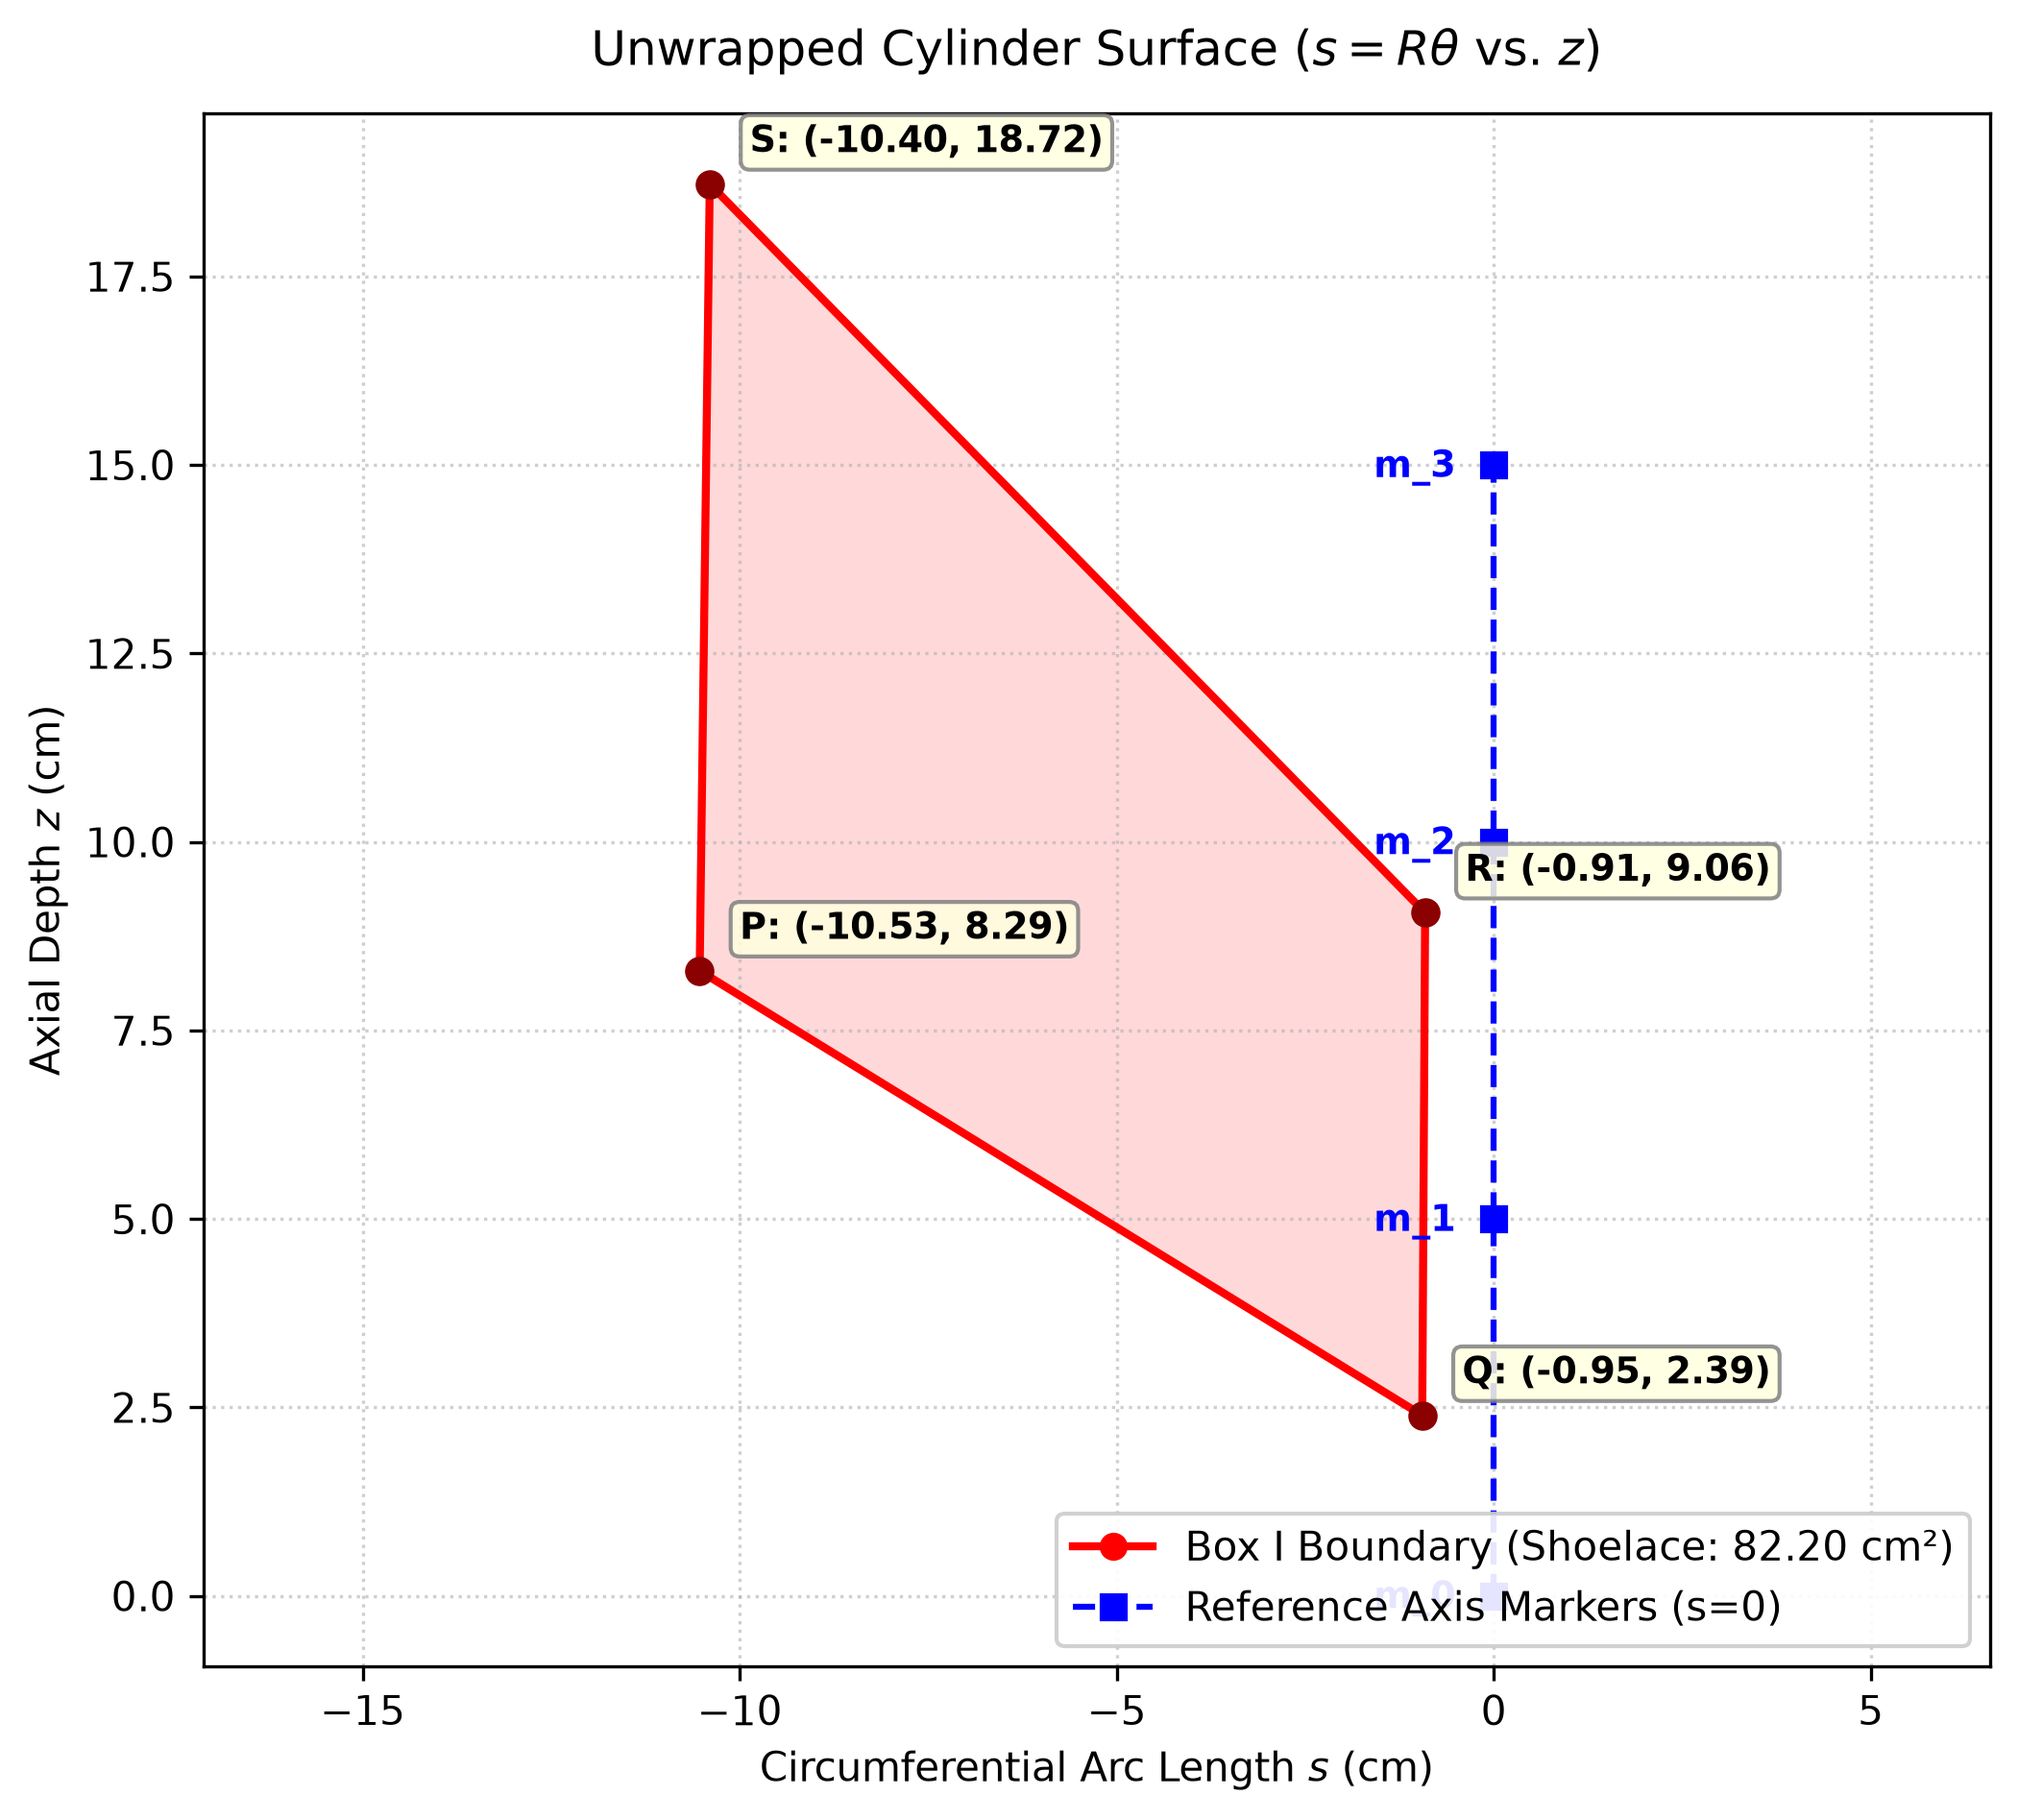
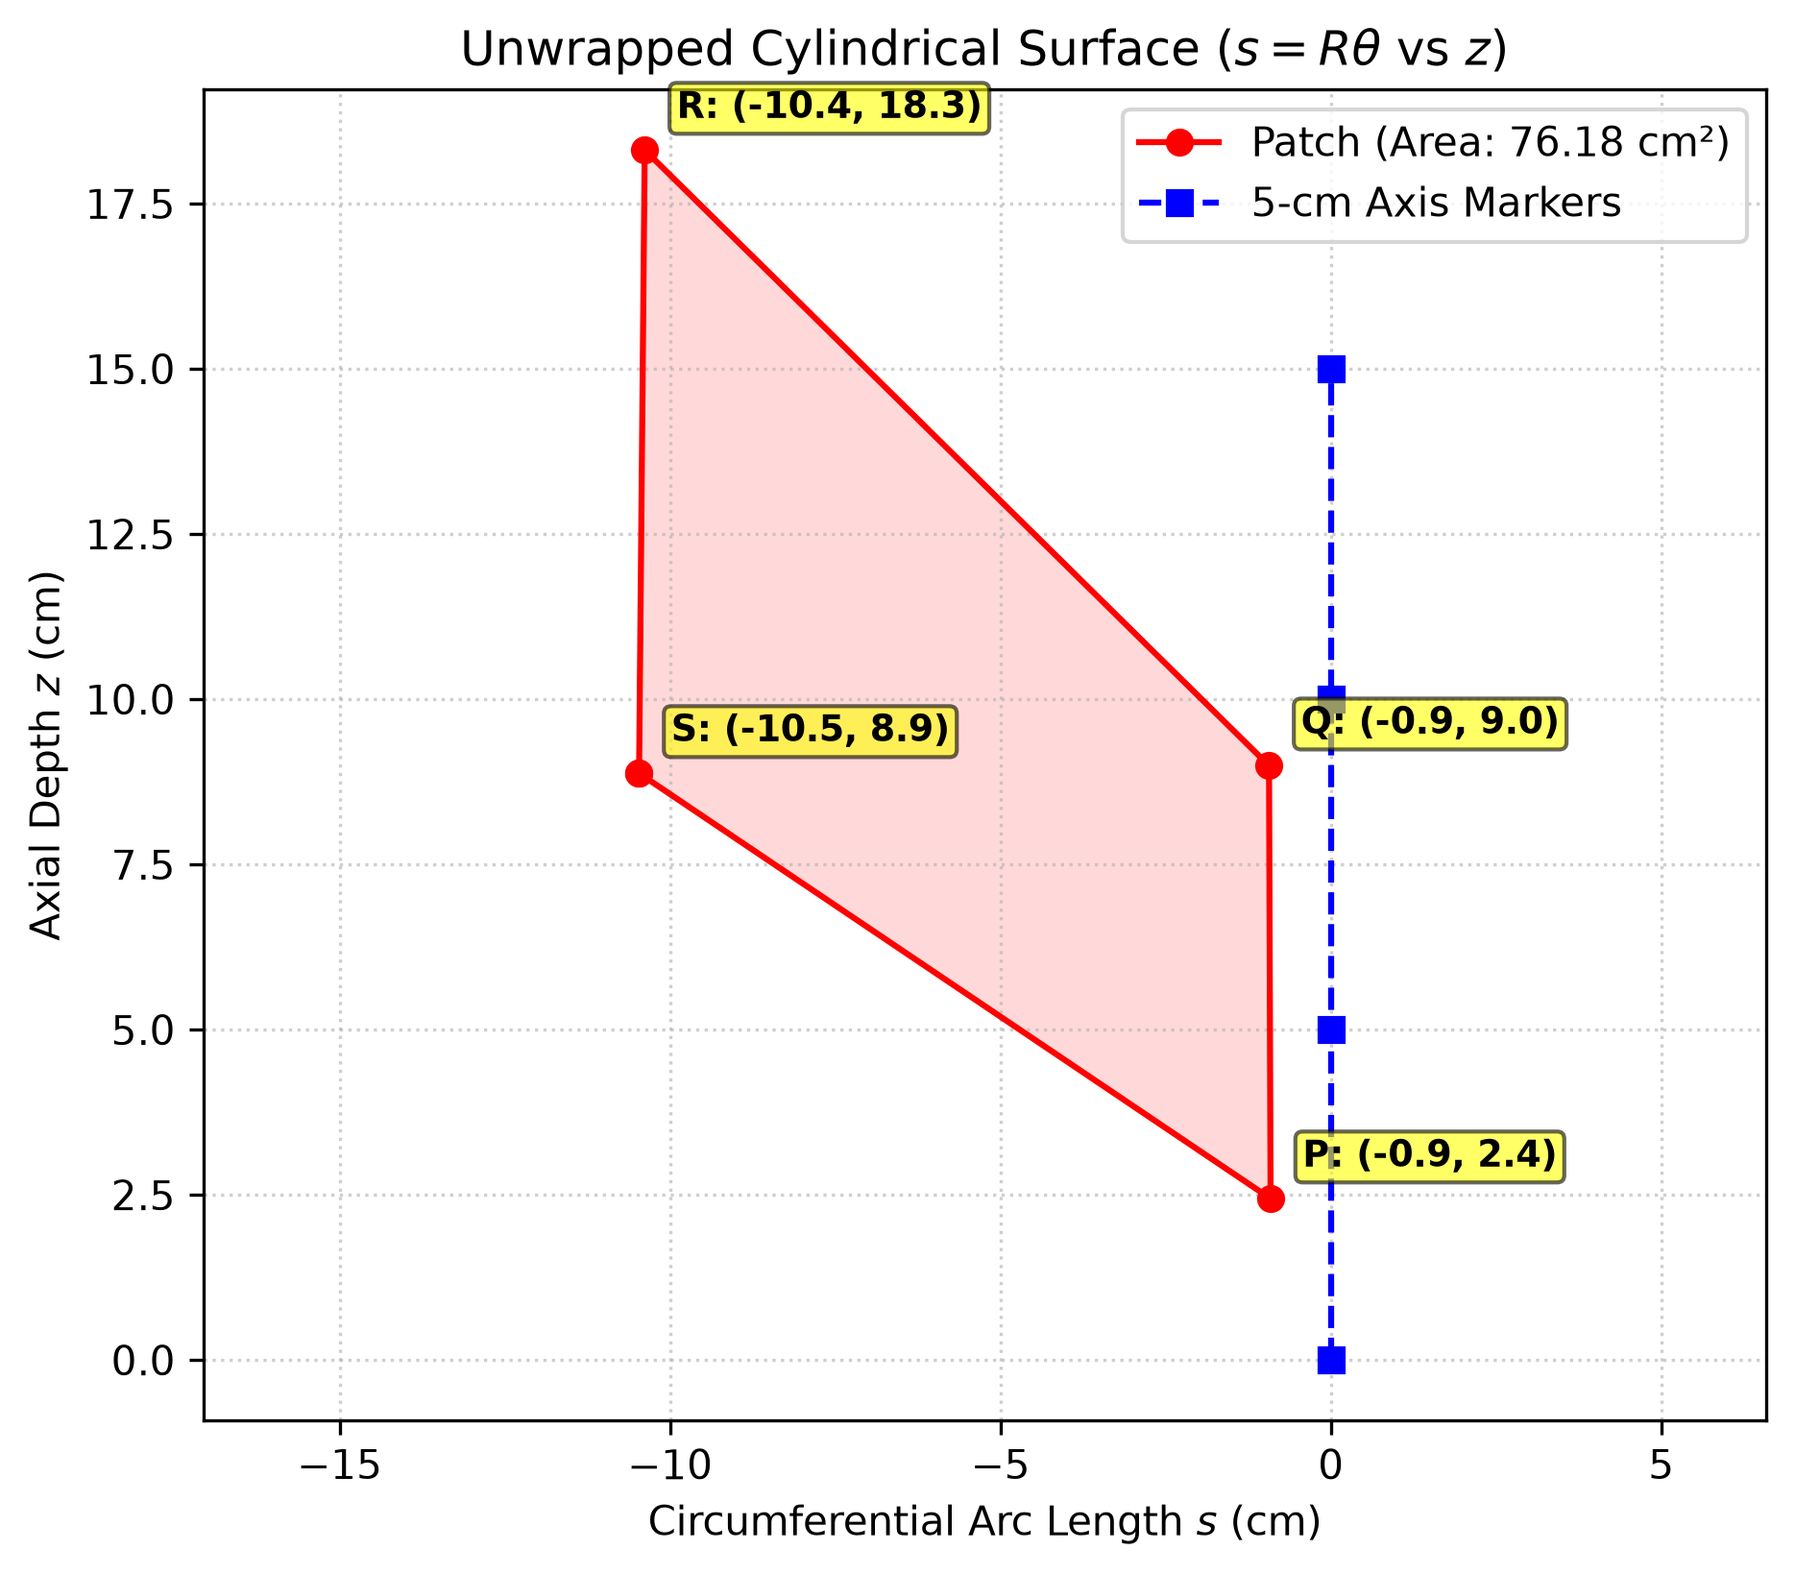
feat: validate Box 1 patch reconstruction and unwrapped metrics

Changed region(s): [[0.0, 0.0, 0.993, 0.9957], [0.4345, 0.1867, 0.6517, 0.4356]]

diff --git a/2D_coordinates_3D_coordinates.py b/2D_coordinates_3D_coordinates.py
@@ -1,6 +1,7 @@
 import cv2
 import math
 import numpy as np
+import os
 
 # 2. Dimensions and physical constants
 img_width = 3024
@@ -32,16 +33,8 @@ viewing_directions = []
 # Dictionary to look up specific points by letter: P, Q, R, S
 points_dict = {}
 
-# After four clicks, have:
-# points_dict["P"]["d_hat"] → P's normalized direction
-# points_dict["Q"]["d_hat"] → Q's normalized direction
-# points_dict["R"]["d_hat"] → R's normalized direction
-# points_dict["S"]["d_hat"] → S's normalized direction
-
 measurement_labels = ['m_0', 'm_1', 'm_2', 'm_3']
-
 measurement_coordinates = []
-
 axial_positions = [40.0, 35.0, 30.0, 25.0]  # cm
 
 # Camera Matrix
@@ -53,50 +46,16 @@ K = np.array([
 
 # Camera Ray
 # P(t) = C + td
-
 C = np.array([
     [0],
     [0],
     [0]
 ])
 
-# Cylinder pose still to determine:
-#
-# A = one known/estimated point on cylinder center axis
-# a_hat = unit direction vector of cylinder axis
-#
-# Determine A and a_hat using:
-# - radius = 4.25 cm
-# - longitudinal reference lines
-# - known 5-cm markings
-#
-# Do NOT estimate cylinder pose from P, Q, R, S.
-
 reference_spacing = 5.0  # cm
-
-# For two consecutive points on the same longitudinal reference line:
-#
-# M_i     = t_i * d_hat_i
-# M_next  = t_next * d_hat_next
-#
-# M_i - M_next = reference_spacing * a_hat
-#
-# Therefore:
-# t_i * d_hat_i - t_next * d_hat_next
-#     = reference_spacing * a_hat
-
-# Known physical constraint:
-# ||M_1 - M_0|| = reference_spacing
-
-# Cylinder center axis:
-# L(s) = A + s * a_hat
-# A     = a 3D point on the cylinder center axis
-# a_hat = unit direction vector of the cylinder center axis
-# s     = parameter that moves along the cylinder axis
 
 def mouse_click_callback(event, u, v, flags, param):
     """Callback function triggered on mouse events."""
-    # Only capture up to 8 points (m_0..m_3, P..S)
     if event == cv2.EVENT_LBUTTONDOWN and len(clicked_coordinates) < len(labels):
         idx = len(clicked_coordinates)
         letter = labels[idx]
@@ -155,11 +114,15 @@ def mouse_click_callback(event, u, v, flags, param):
             print("\n>>> Reference points m_0 to m_3 recorded!")
             print(">>> Now click the 4 corners of Box 1 (P -> Q -> R -> S in order)...\n")
 
-image_path = '/Users/ryanmondong/Desktop/IMG_2667.JPG'
+# Use current Downloads path directly
+image_path = os.path.expanduser('~/Downloads/cylinder-3d-reconstruction/IMG_2667.JPG')
+if not os.path.exists(image_path):
+    image_path = os.path.expanduser('~/Downloads/IMG_2667.JPG')
+
 original_img = cv2.imread(image_path)
 
 if original_img is None:
-    print("Error: Could not load image. Check the file path.")
+    print(f"Error: Could not load image from {image_path}. Check the file path.")
 else:
     display_img = original_img.copy()
 
@@ -167,7 +130,6 @@ else:
     cv2.setMouseCallback("Image Window", mouse_click_callback)
     cv2.imshow("Image Window", display_img)
 
-    # print("Click on the image to store coordinates (P, Q, R, S). Press 'ESC' or 'q' to exit.")
     print("Click known 5-cm reference markings m_0, m_1, m_2, m_3. Press 'ESC' or 'q' to exit.")
 
     while True:
@@ -186,10 +148,10 @@ else:
     d3 = points_dict['m_3']['d_hat'].flatten()
 
     B1 = np.column_stack((
-    d0,
-    -2 * d1,
-    d2,
-    np.zeros(3)
+        d0,
+        -2 * d1,
+        d2,
+        np.zeros(3)
     ))
 
     B2 = np.column_stack((
@@ -203,11 +165,8 @@ else:
 
     # Solve for relative depths using SVD
     U, S, Vt = np.linalg.svd(B)
-
     t_relative = Vt[-1]
 
-    # SVD can return the same solution with either sign.
-    # Camera points should be in front of the camera.
     if np.mean(t_relative) < 0:
         t_relative = -t_relative
 
@@ -265,39 +224,27 @@ else:
     v_axis = np.cross(a_hat, u_axis)
 
     def intersect_ray_cylinder(d_hat, A_anchor, a_hat_dir, R_cyl):
-        """Calculates the 3D surface intersection for a camera ray."""
-        v = np.cross(d_hat, a_hat_dir)
-        w = np.cross(-A_anchor, a_hat_dir)
+            """Calculates the 3D surface intersection for a camera ray."""
+            v = np.cross(d_hat, a_hat_dir)
+            w = np.cross(-A_anchor, a_hat_dir)
 
-        c2 = np.dot(v, v)
-        c1 = 2.0 * np.dot(v, w)
-        c0 = np.dot(w, w) - (R_cyl ** 2)
+            c2 = np.dot(v, v)
+            c1 = 2.0 * np.dot(v, w)
+            c0 = np.dot(w, w) - (R_cyl ** 2)
 
-        discriminant = c1**2 - 4.0 * c2 * c0
-        if discriminant < 0:
-            raise ValueError("Ray does not intersect cylinder.")
+            discriminant = c1**2 - 4.0 * c2 * c0
+            if discriminant < 0:
+                raise ValueError("Ray does not intersect cylinder.")
 
-        t1 = (-c1 - np.sqrt(discriminant)) / (2.0 * c2)
-        t2 = (-c1 + np.sqrt(discriminant)) / (2.0 * c2)
+            t1 = (-c1 - np.sqrt(discriminant)) / (2.0 * c2)
+            t2 = (-c1 + np.sqrt(discriminant)) / (2.0 * c2)
 
-        # Find the positive root that stays inside the physical pipe bounds
-        candidates = []
-        for t in (t1, t2):
-            if t > 0:
-                pt = t * d_hat
-                z_axial = np.dot(pt - A_anchor, a_hat_dir)
-                if 0.0 <= z_axial <= pipe_length:
-                    candidates.append((t, pt))
-
-        if candidates:
-            # Pick the farther root inside bounds (inner visible surface looking down the pipe)
-            return candidates[-1][1]
-
-        # Fallback if manual click sits slightly past the boundary rim
-        t_pos = [t for t in (t1, t2) if t > 0]
-        if not t_pos:
-            raise ValueError("No positive intersection found along camera ray.")
-        return min(t_pos) * d_hat
+            # For interior surface viewing from the camera aperture, take the smaller positive root
+            t_pos = [t for t in (t1, t2) if t > 0]
+            if not t_pos:
+                raise ValueError("No positive intersection found along camera ray.")
+            
+            return min(t_pos) * d_hat
 
     # Target patch reconstruction from live user clicks (P, Q, R, S)
     patch_3d = {}
@@ -334,17 +281,14 @@ else:
     z_pts = sorted_pts[:, 1]
     calc_area = 0.5 * np.abs(np.dot(s_pts, np.roll(z_pts, 1)) - np.dot(z_pts, np.roll(s_pts, 1)))
 
-    # Ground truth comparison from Notion for Box I (9.3 cm * 6.9 cm) = 64.2
-    # Ground truth comparison from Notion for Box II (5.8 cm * 12.5 cm) = 72.5
-    # Ground truth comparison from Notion for Box III (11.4 cm * 6 cm) = 68.4
     # Compute Reconstructed Dimensions from unwrapped coordinates (s, z)
     s_vals = pts_2d[:, 0]
     z_vals = pts_2d[:, 1]
-    recon_width = np.max(s_vals) - np.min(s_vals)
-    recon_height = np.max(z_vals) - np.min(z_vals)
+    # True physical edges: circumferential span (P to S) and axial depth (P to Q)
+    recon_width = abs(patch_unwrapped['S'][0] - patch_unwrapped['P'][0])
+    recon_height = abs(patch_unwrapped['Q'][1] - patch_unwrapped['P'][1])
     recon_rect_area = recon_width * recon_height
 
-    # Ground truth targets for Box I (Change to Box II or III when testing)
     actual_width = 9.30
     actual_height = 6.90
     actual_area_cm2 = 64.20
